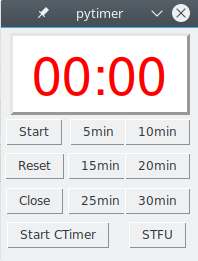
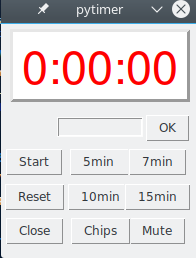
added input box and updated screenshot

Changed region(s): [[0.0, 0.0, 1.0, 1.0], [0.6429, 0.5891, 0.9796, 0.7132], [0.3673, 0.5891, 0.6429, 0.7132]]

diff --git a/pytimer.py b/pytimer.py
@@ -22,6 +22,10 @@ from collections import OrderedDict
 from subprocess import PIPE, STDOUT, Popen
 from subprocess import call
 
+import tkinter
+from tkinter import *
+
+
 # Manjaro: sudo pacman -S tk
 # Ubuntu:  sudo apt-get install python3-tk
 import tkinter as tk
@@ -147,10 +151,11 @@ def formatter(sec):
     #return "{:02d}:{:02d}".format(*divmod(sec, 60))
     hours, remainder = divmod(sec, 3600)
     mins, sec = divmod(remainder, 60)
-    if MINUTES > 60:
-        return "{:2d}:{:02d}:{:02d}".format(hours, mins, sec)
-    else:
-        return "{:02d}:{:02d}".format(mins, sec)
+    #if MINUTES > 60:
+    return "{:1d}:{:02d}:{:02d}".format(hours, mins, sec)
+    #else:
+        #return "{:02d}:{:02d}".format(mins, sec)
+        #return "{:2d}:{:02d}:{:02d}".format(hours, mins, sec)
 
 def play_sound():
     os.system("play -q -v {vol} {fname} &".format(
@@ -161,13 +166,12 @@ def play_sound():
 def count_down():
     global go_on
     go_on = True
-    if five == 5: MINUTES = 5
-    if ten == 10: MINUTES = 10
-    if fifteen == 15: MINUTES = 15
-    if twenty == 20: MINUTES = 20
-    if twentyfive == 25: MINUTES = 25
-    if thirty == 30: MINUTES = 30
-    #if plus == True: MINUTES = MINUTES +1
+    if onok == True: MINUTES = OK
+    if five == True: MINUTES = 5
+    if ten == True: MINUTES = 10
+    if fifteen == True: MINUTES = 15
+    if seven == True: MINUTES = 7
+    if twentytwo == True: MINUTES = 22
     for t in range(MINUTES * 60 - 1, -1, -1):
         if t == 0:
             play_sound()
@@ -184,23 +188,7 @@ def count_down():
             return
     reset()
 
-def count_down_custom():
-    global go_on
-    go_on = True
-    for t in range(MINUTES * 60 - 1, -1, -1):
-        if t == 0:
-            play_sound()
-            switch_to_window(WINDOW_TITLE)
-        time_str.set(formatter(t))
-        root.update()
-        # delay one second
-        for _ in range(2):
-            time.sleep(0.5)    # if minimized then maximized,
-            root.update()      # it's more responsive this way
-        if not go_on:
-            return
-    reset()
-
+#Clear variables
 def clear_vars():
     global five
     five = None
@@ -208,12 +196,10 @@ def clear_vars():
     ten = None
     global fifteen
     fifteen = None
-    global twenty
-    twenty = None
-    global twentyfive
-    twentyfive = None
-    global thirty
-    thirty = None
+    global seven
+    seven = None
+    global twentytwo
+    twentytwo = None
     root.update()
 
 def reset():
@@ -227,7 +213,7 @@ def five():
     global go_on
     go_on = False
     global five
-    five = 5
+    five = True
     time_str.set(formatter(5 * 60))
     root.update()
 
@@ -235,7 +221,7 @@ def ten():
     global go_on
     go_on = False
     global ten
-    ten = 10
+    ten = True
     time_str.set(formatter(10 * 60))
     root.update()
 
@@ -243,36 +229,40 @@ def fifteen():
     global go_on
     go_on = False
     global fifteen
-    fifteen = 15
+    fifteen = True
     time_str.set(formatter(15 * 60))
     root.update()
 
-def twenty():
+def seven():
     global go_on
     go_on = False
-    global twenty
-    twenty = 20
-    time_str.set(formatter(20 * 60))
+    global seven
+    seven = True
+    time_str.set(formatter(7 * 60))
     root.update()
     
-def twentyfive():
+def twentytwo():
     global go_on
     go_on = False
-    global twentyfive
-    twentyfive = 25    
-    time_str.set(formatter(25 * 60))
+    global twentytwo
+    twentytwo = True    
+    time_str.set(formatter(22 * 60))
     root.update()   
 
-def thirty():
-    global go_on
-    go_on = False
-    global thirty
-    thirty = 30
-    time_str.set(formatter(30 * 60))
-    root.update()
 
-def stfu():
+    
+
+def mute():
     call(["kill", "-9", "play"])
+    
+def onok():
+    global OK
+    OK = int(entry.get())
+    MINUTES = OK
+    global onok
+    onok = True
+    time_str.set(formatter(MINUTES * 60))
+    root.update()
 
 def center(win):
     """
@@ -343,22 +333,22 @@ root.update()
 # create buttons
 # pack() positions the buttons below the label
 #tk.Button(root, text='Start', command=count_down).pack(side="left")
-tk.Button(root, text='Start', command=count_down).place(relx=.15, rely=.45, anchor="c")
+tk.Button(root, text='Start', command=count_down).place(relx=.15, rely=.60, anchor="c")
 #(relheight=.25, relwidth=.35)
-tk.Button(root, text='Reset', command=reset).place(relx=.15, rely=.60, anchor="c")
-#tk.Button(root, text='Close', command=root.destroy).pack(side='bottom')
-tk.Button(root, text='Close', command=root.destroy).place(relx=.15, rely=.75, anchor="c")
+tk.Button(root, text='Reset', command=reset).place(relx=.15, rely=.75, anchor="c")
+tk.Button(root, text='Close', command=root.destroy).place(relx=.15, rely=.90, anchor="c")
+tk.Button(root, text='Mute', command=mute).place(relx=.80, rely=.90, anchor="c")
 
-tk.Button(root, text='5min ', command=five).place(relx=.50, rely=.45, anchor="c")
-tk.Button(root, text='10min', command=ten).place(relx=.80, rely=.45, anchor="c")
-tk.Button(root, text='15min', command=fifteen).place(relx=.50, rely=.60, anchor="c")
-tk.Button(root, text='20min', command=twenty).place(relx=.80, rely=.60, anchor="c")
-tk.Button(root, text='25min', command=twentyfive).place(relx=.50, rely=.75, anchor="c")
-tk.Button(root, text='30min', command=thirty).place(relx=.80, rely=.75, anchor="c")
-tk.Button(root, text='Start CTimer', command=count_down_custom).place(relx=.28, rely=.90, anchor="c")
-tk.Button(root, text='STFU', command=stfu).place(relx=.80, rely=.90, anchor="c")
-#tk.Button(root, text='-', command=minus).place(relx=.80, rely=.90, anchor="c")
+#Presets
+tk.Button(root, text='5min ', command=five).place(relx=.50, rely=.60, anchor="c")
+tk.Button(root, text='10min', command=ten).place(relx=.50, rely=.75, anchor="c")
+tk.Button(root, text='15min', command=fifteen).place(relx=.80, rely=.75, anchor="c")
+tk.Button(root, text='7min', command=seven).place(relx=.80, rely=.60, anchor="c")
+tk.Button(root, text='Chips', command=twentytwo).place(relx=.50, rely=.90, anchor="c")
 
+entry = Entry(root, width=10)
+entry.pack(side=TOP,padx=10,pady=10)
+tk.Button(root, text='OK', command=onok).place(relx=.85, rely=.45, anchor="c")
 
 
 # start the GUI event loop

diff --git a/README.md b/README.md
@@ -16,9 +16,7 @@ Screenshot
 Usage
 -----
 
-Create an application launcher and execute ./launcher.sh for countdown timer with basic presets
-
-For a custom timer execute $ ./pytimer.py X' or $ './launcher.sh X' (where X = number of minutes)
+Create an application launcher and execute ./launcher.sh or execute ./pytimer.py
 
 Dependencies
 ------------
@@ -30,5 +28,3 @@ Install the following packages with your package manager:
 
 The GUI is based on Tkinter. For Python 3 I had to install it too
 
-
-TODO: add an input box for time required and a button to increment time remaining by 1 mintue 
